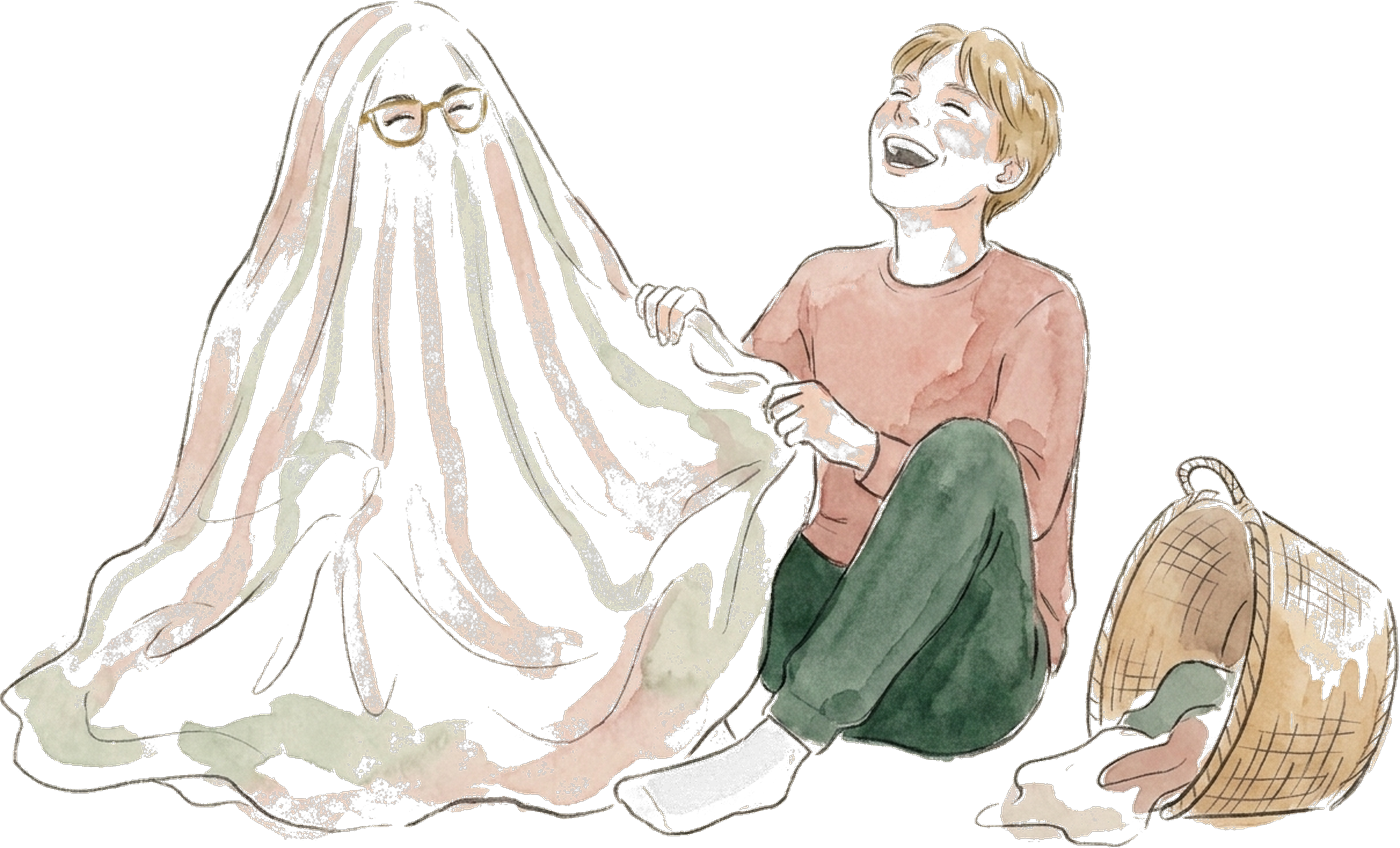
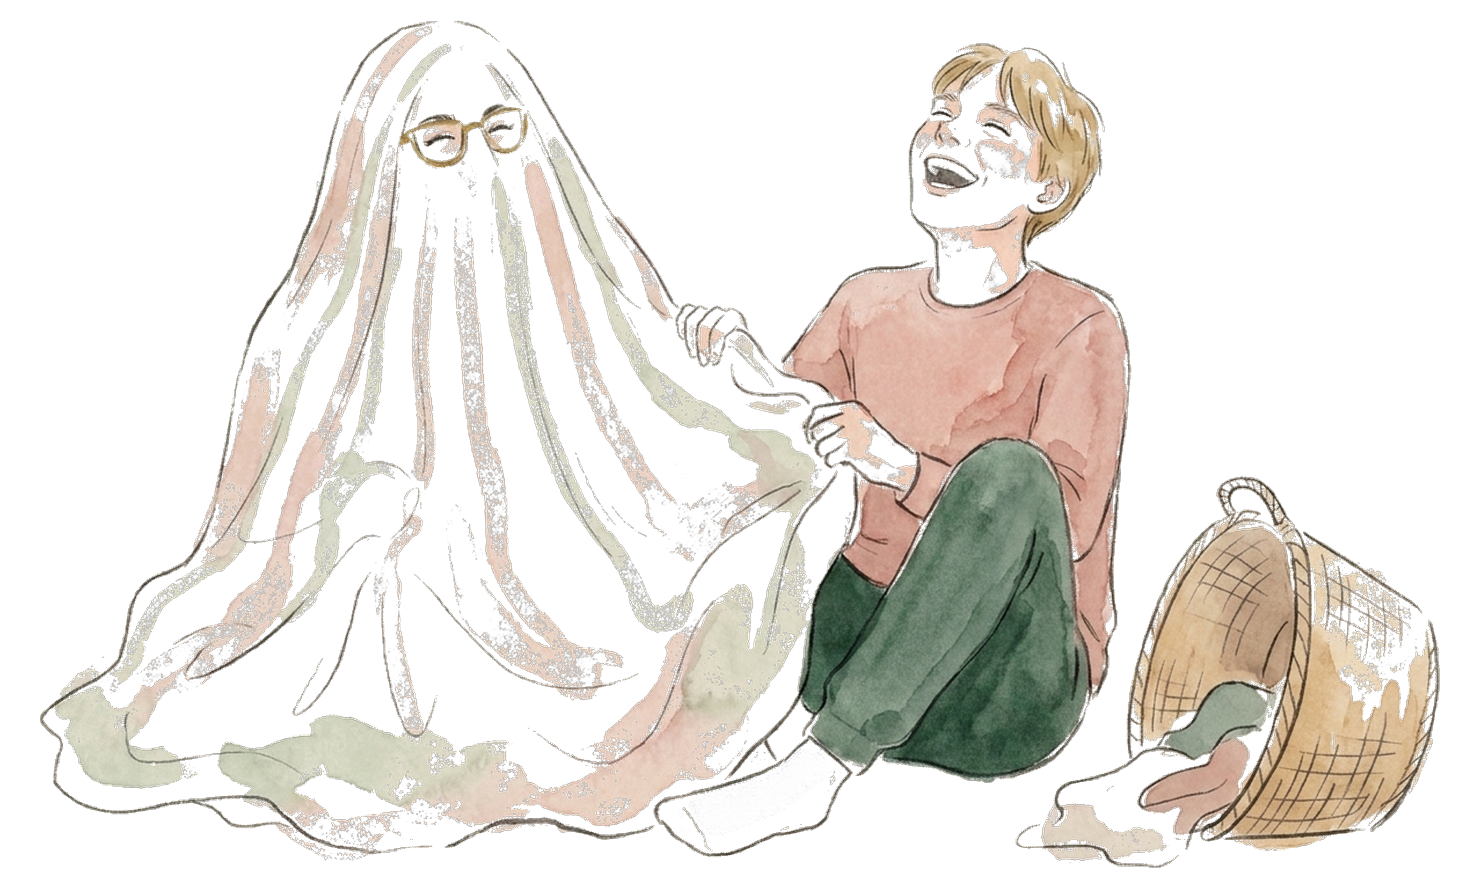
Fix the sofa colours properly, match every pair's scale, and wake the footer
The grey patches on their faces and socks were my keying: I removed every
pixel near the paper colour, which ate the light tones inside the figures.
Backgrounds are now removed by flood fill from the frame edge only, so
white socks, mugs and skin highlights survive. Re-cut from the pristine
sources, because PNG optimisation had already zeroed the colour underneath
the transparent pixels and no amount of alpha repair could bring it back.

Then the deeper one: the two states of a gag were drawn at different
scales by different generations, so padding could never fix the apparent
resize. Every pair is now normalised by its drawn subject, matched in
width and locked to a shared canvas and baseline. On the sofa that was an
830 against 1018 pixel difference, which is exactly the jump you were
seeing.

And the footer now arrives instead of just being there: the content rises
in, the acknowledgement follows, and the heart only starts beating once it
has landed.

Changed region(s): [[0.0, 0.0, 1.0, 1.0]]

diff --git a/site/index.html b/site/index.html
@@ -286,6 +286,10 @@ section{position:relative}
 .foot{position:relative;border-top:1px solid var(--rule);padding-block:clamp(3.5rem,6vw,5.5rem) 3.5rem;
   background:var(--plate);overflow:visible}
 .foot{overflow:clip}
+.js .foot-in,.js .foot .ack{opacity:0;transform:translateY(20px);
+  transition:opacity 1s cubic-bezier(.2,.8,.2,1),transform 1s cubic-bezier(.2,.8,.2,1)}
+.js .foot.in .foot-in{opacity:1;transform:none}
+.js .foot.in .ack{opacity:1;transform:none;transition-delay:.18s}
 .foot::before{content:"";position:absolute;left:-15%;right:-15%;top:-8rem;height:30rem;z-index:0;
   background:radial-gradient(closest-side,color-mix(in srgb,var(--pink) 26%,transparent),transparent 70%);
   pointer-events:none;animation:foot-pulse 16s ease-in-out infinite alternate}
@@ -293,7 +297,7 @@ section{position:relative}
 .foot>*{position:relative;z-index:1}
 /* the dog sleeps on the footer line, breathing. The footer is allowed one joke. */
 /* the footer's own small movement: the painted heart in the mark beats slowly */
-.foot-top .wm img{animation:beat 4.5s ease-in-out infinite}
+.foot.in .foot-top .wm img{animation:beat 4.5s ease-in-out infinite 1s}
 @keyframes beat{
   0%,100%{transform:scale(1)}
   8%{transform:scale(1.045)}
@@ -301,7 +305,8 @@ section{position:relative}
   24%{transform:scale(1.028)}
   32%{transform:scale(1)}
 }
-@media (prefers-reduced-motion:reduce){.foot::before,.foot-top .wm img{animation:none}}
+@media (prefers-reduced-motion:reduce){.foot::before,.foot-top .wm img{animation:none}
+  .js .foot-in,.js .foot .ack{opacity:1;transform:none;transition:none}}
 .foot-top{display:flex;flex-wrap:wrap;gap:2.5rem 3rem;align-items:flex-start}
 .foot-top>a.wm{flex:1 1 26rem;min-width:0}
 .foot-top .wm img{width:clamp(7rem,15vw,14rem);height:auto;object-fit:contain}
@@ -705,12 +710,13 @@ section{position:relative}
   addEventListener('scroll',onScroll,{passive:true});onScroll();
 
   if(!('IntersectionObserver' in window)){
-    document.querySelectorAll('.rv').forEach(function(n){n.classList.add('in')});return;
+    document.querySelectorAll('.rv, .foot').forEach(function(n){n.classList.add('in')});return;
   }
   var io=new IntersectionObserver(function(es){
     es.forEach(function(e){if(e.isIntersecting){e.target.classList.add('in');io.unobserve(e.target)}})
   },{rootMargin:'0px 0px -12% 0px',threshold:.08});
   document.querySelectorAll('.rv').forEach(function(n){io.observe(n)});
+  var ft=document.querySelector('.foot'); if(ft) io.observe(ft);
 
   // Scroll-linked motion for the painted scenes. Plain transforms and one
   // SVG path per string: WebGL would buy nothing on flat watercolour cutouts.
